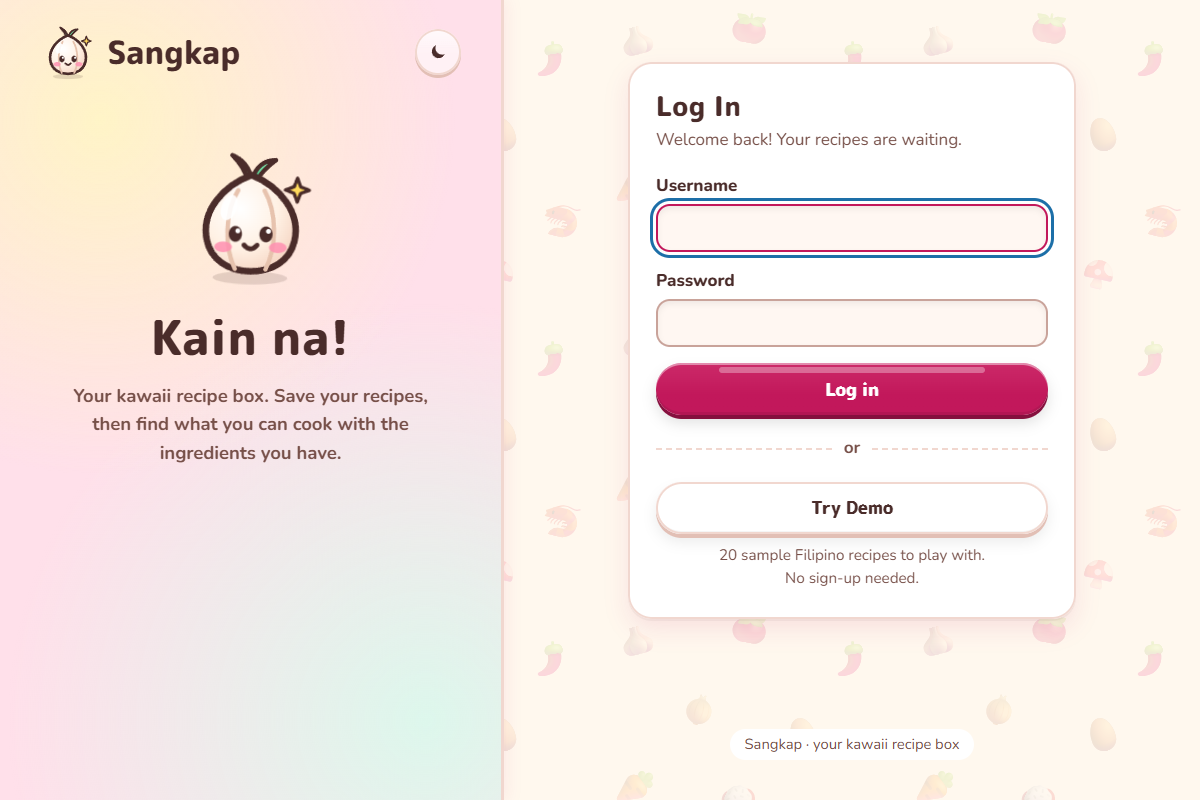
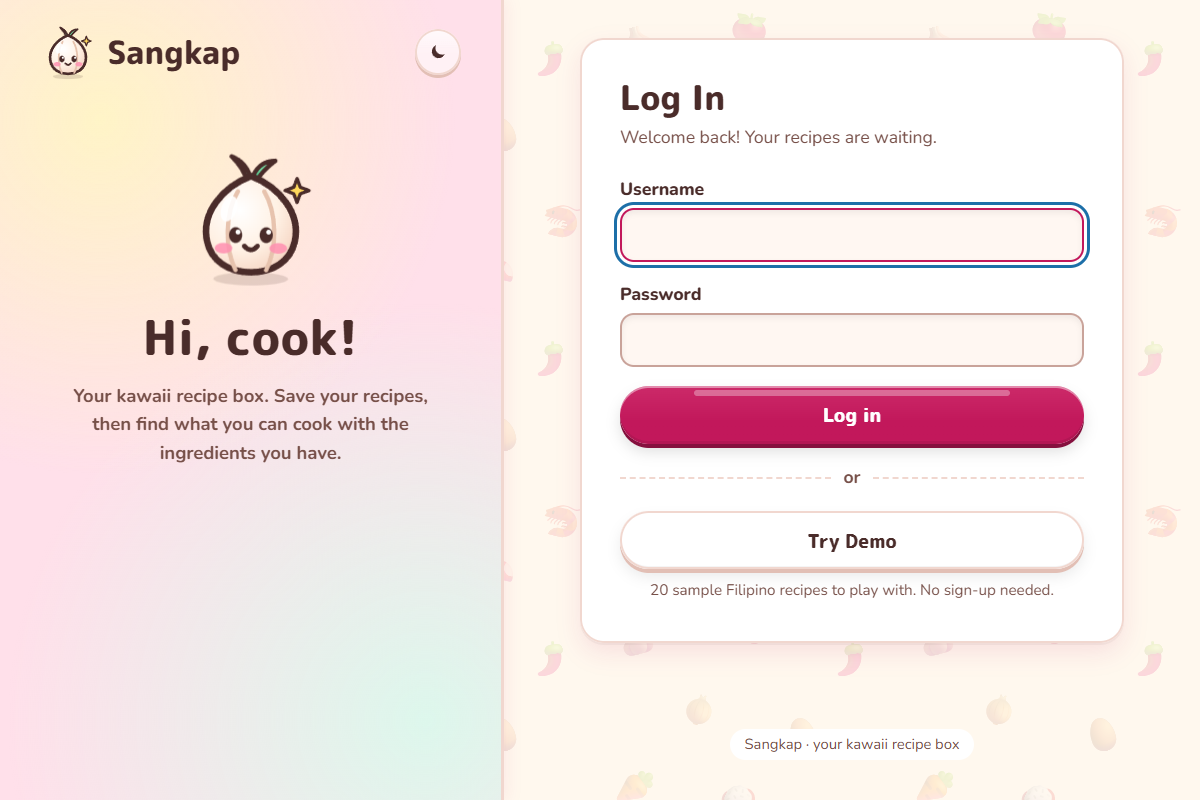
Login page: "Hi, cook!" and a bigger login card
- The welcome says "Hi, cook!" instead of "Kain na!".
- The login card is wider (36rem), with more padding, a bigger "Log In"
  heading, taller boxes and buttons and larger text. Phones keep a
  slightly smaller padding so the boxes stay wide.

diff --git a/sangkap/static/style.css b/sangkap/static/style.css
@@ -1388,11 +1388,13 @@ details.paste summary { cursor: pointer; font-weight: 800; min-height: 44px; dis
   display: flex;
   flex-direction: column;
   justify-content: center;
-  max-width: 30rem;
+  max-width: 36rem;
 }
-.login-card { margin: 0; padding: 28px; }
-.login-card h2 { margin-bottom: 4px; font-size: 1.7rem; }
-.login-card .form { margin-top: 20px; }
+.login-card { margin: 0; padding: 2.5rem; font-size: 1.1rem; }
+.login-card h2 { margin-bottom: 6px; font-size: 2.1rem; }
+.login-card .form { margin-top: 24px; gap: 1.2rem; }
+.login-card input { min-height: 54px; font-size: 1.1rem; }
+.login-card .button-large { min-height: 58px; font-size: 1.2rem; }
 .button-large { min-height: 52px; font-size: 1.1rem; }
 .button-block { width: 100%; }
 
@@ -1487,6 +1489,8 @@ details.paste summary { cursor: pointer; font-weight: 800; min-height: 44px; dis
   .toolbar .field { flex: 1 1 8rem; }
   .toolbar .search-box { flex-basis: 100%; }
   .setting-row { grid-template-columns: minmax(0, 1fr); }
+  .login-card { padding: 1.5rem; }
+  .login-card h2 { font-size: 1.8rem; }
 }
 
 /* ---------- Motion and print ---------- */

diff --git a/sangkap/templates/base.html b/sangkap/templates/base.html
@@ -129,7 +129,7 @@
         {# The login page: a big welcome instead of the menu. #}
         <div class="welcome">
           <img class="welcome-logo" src="{{ url_for('static', filename='icons/logo.svg') }}" alt="" width="140" height="140">
-          <h1>Kain na!</h1>
+          <h1>Hi, cook!</h1>
           <p>Your kawaii recipe box. Save your recipes, then find what you can cook with the ingredients you have.</p>
         </div>
       {% endif %}

diff --git a/AGENTS.md b/AGENTS.md
@@ -49,7 +49,7 @@ Python 3.13 is at `%LOCALAPPDATA%\Programs\Python\Python313\python.exe`. Use the
   - Layout helpers: `.page-head` (title + `.actions`), `.back-link` above the title, `.page-intro` under it, `.card-head` (card title + control), `.fields-row` and `.toolbar` (controls bottom-aligned, same height). Don't use inline `style=""` for layout.
   - Tabs: My Recipes (`recipes`, has the name search), "What Can I Cook?" (`ingredients.index`, the fridge + pantry picker), "Recipe Ideas" (`discover`, TheMealDB), Meal Plan, Settings (tags, manage ingredients). Keep user-facing text on these names, never "Search"/"Discover".
   - The fridge holds meat, seafood and dairy shelves plus the produce crisper (`FRIDGE_SHELVES`, `CRISPER` in `views/ingredients.py`); the pantry holds pantry, spice and other (`PANTRY_SHELVES`). Their colours are `--fridge-*`, `--wood*`, `--plank`, `--pick-bg` (in all three theme blocks).
-  - **Navigation is a sidebar** (like Gawi, `habit_tracker`): from 900px wide, `.sidebar` is a sticky 248px column with the logo, the menu (`.site-nav` items with line icons; the active one in mint) and, at the bottom, the username (+ a demo note), the light/dark switch and Log out. Under 900px it is a top bar with a ☰ button (`data-menu-button`, `setUpMenu()` in `app.js`; Escape closes it; without JS the menu stays open). On the login page (`welcome-layout`) the same panel is a wide candy welcome (big logo, "Kain na!", one line) and the login card sits beside it (on phones, under it); other logged-out pages (shared recipes) get a plain top bar (`no-sidebar`). Page layouts use **container queries** on `.page` (`container: page`), so the recipe page, the meal plan and the form rows react to the space beside the sidebar, not to the window.
+  - **Navigation is a sidebar** (like Gawi, `habit_tracker`): from 900px wide, `.sidebar` is a sticky 248px column with the logo, the menu (`.site-nav` items with line icons; the active one in mint) and, at the bottom, the username (+ a demo note), the light/dark switch and Log out. Under 900px it is a top bar with a ☰ button (`data-menu-button`, `setUpMenu()` in `app.js`; Escape closes it; without JS the menu stays open). On the login page (`welcome-layout`) the same panel is a wide candy welcome (big logo, "Hi, cook!", one line) and the login card sits beside it (on phones, under it); other logged-out pages (shared recipes) get a plain top bar (`no-sidebar`). Page layouts use **container queries** on `.page` (`container: page`), so the recipe page, the meal plan and the form rows react to the space beside the sidebar, not to the window.
   - Filters with `data-autosubmit` apply on change; their `data-autosubmit-button` only shows without JavaScript.
   - Cook mode slides steps with the Web Animations API (`slideFrames()` in `app.js`), swipe included; reduced motion = fade.
 - **Wide screens:** `.page` fills the space beside the sidebar up to `max-width: 110rem`, and the root font size steps up at 1600 / 1920 / 2300px (17 / 18 / 19px). Keep sizes in `rem` so they grow with it; Settings (60rem) and cook mode (60rem) keep a reading width.

diff --git a/docs/PLAN.md b/docs/PLAN.md
@@ -115,7 +115,7 @@ Results load with `selectinload` (a test counts the queries: no N+1).
 
 - **Settings and wording (PR #7, 2026-10-29):** Settings is one centred column with two cards (Your recipe box; Account). Every row has its name and description on the left and a same-width button on the right (full width under the text on phones), and the password form sits under its heading. A capitalization check over every page's headings, buttons, labels and titles led to: "Logged in as" (matching Log in / Log out), the error page's tab title matching its heading, the pantry shelf renamed "Dry goods & sauces" (it was "Pantry" inside the Pantry), and a clearer hidden label for the Match menu.
 
-- **Sidebar navigation (PR #8, 2026-10-29):** like Gawi, the menu moved from the top bar to a sidebar on the left (logo, menu items with icons, then the username, light/dark switch and Log out at the bottom), with a ☰ menu on phones. The demo banner became a note under the username. Page layouts now use container queries, so they fit the space beside the sidebar. The login page matches Gawi too: a candy welcome panel on the left (big logo, "Kain na!") and one login card on the right with "or" and a big Try the demo button. And like Gawi, Sangkap is installable on a phone: a web manifest, a service worker (with a "You're offline" page), an Install app button in the sidebar and in Settings (shown only when the browser can install), and the iPhone steps in Settings.
+- **Sidebar navigation (PR #8, 2026-10-29):** like Gawi, the menu moved from the top bar to a sidebar on the left (logo, menu items with icons, then the username, light/dark switch and Log out at the bottom), with a ☰ menu on phones. The demo banner became a note under the username. Page layouts now use container queries, so they fit the space beside the sidebar. The login page matches Gawi too: a candy welcome panel on the left (big logo, "Hi, cook!") and one login card on the right with "or" and a big Try the demo button. And like Gawi, Sangkap is installable on a phone: a web manifest, a service worker (with a "You're offline" page), an Install app button in the sidebar and in Settings (shown only when the browser can install), and the iPhone steps in Settings.
 
 - **Fill wide screens (PR #9, 2026-10-29):** pages used to stop at 1180px, leaving big empty margins on wide monitors. Now they fill the space beside the sidebar (up to 110rem), and the text grows on big screens (17px at 1600px, 18px at 1920px, 19px at 2300px wide), so everything stays readable. Settings and cook mode keep a comfortable reading width.
 
